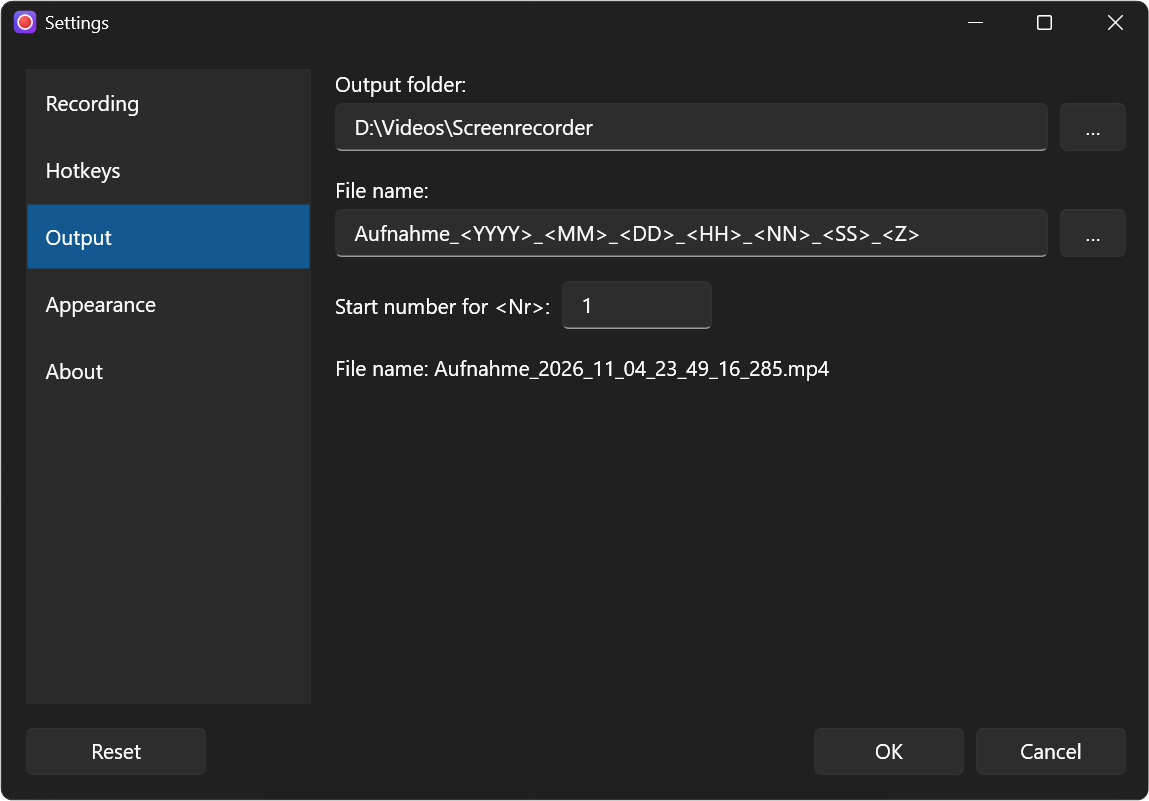
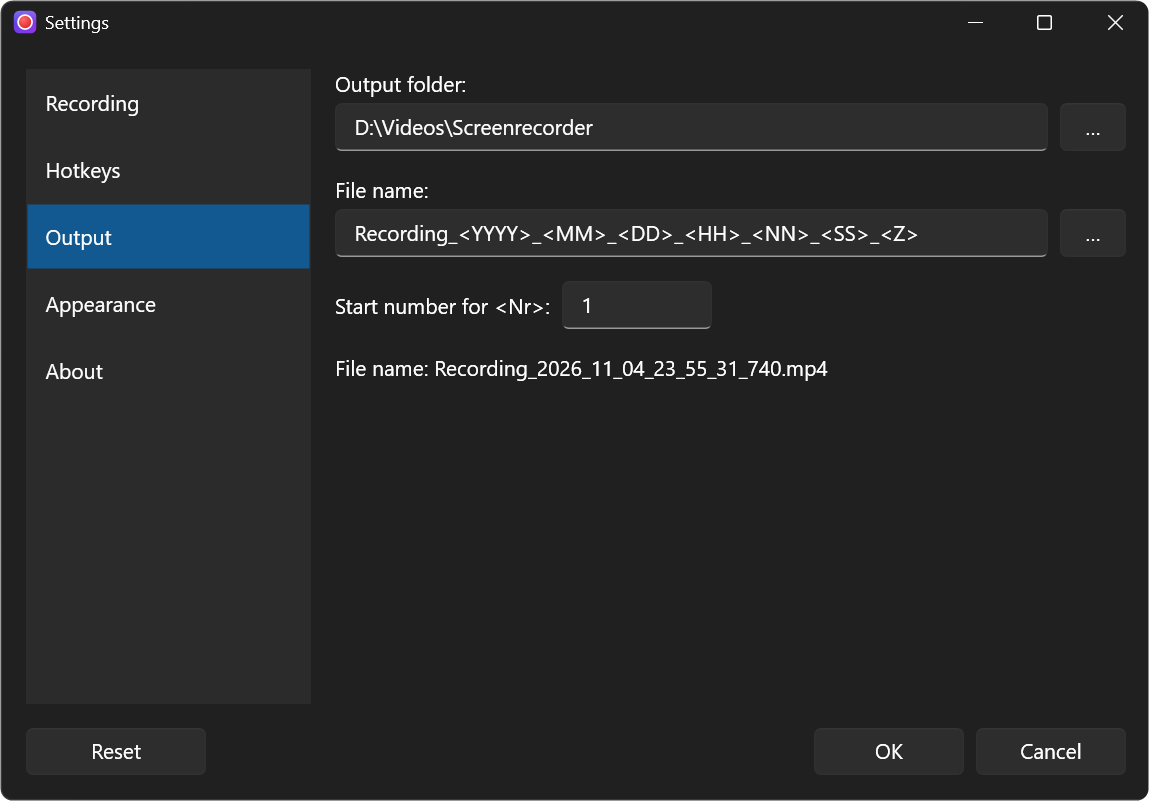
Localize the default file name: Recording_… in English, Aufnahme_… in German
Saved custom patterns stay untouched; only new installs, Reset and an empty
file name field use the localized default.

Changed region(s): [[0.0, 0.9988, 1.0, 1.0], [0.3046, 0.2809, 0.792, 0.3121], [0.3655, 0.437, 0.7311, 0.4682]]

diff --git a/src/Screenrecorder/FileNamer.cs b/src/Screenrecorder/FileNamer.cs
@@ -1,11 +1,13 @@
 using System.IO;
+using Screenrecorder.Resources;
 
 namespace Screenrecorder;
 
-/// <summary>Builds output file names from patterns like "Aufnahme_&lt;YYYY&gt;_&lt;MM&gt;_&lt;DD&gt;_&lt;HH&gt;_&lt;NN&gt;_&lt;SS&gt;_&lt;Z&gt;".</summary>
+/// <summary>Builds output file names from patterns like "Recording_&lt;YYYY&gt;_&lt;MM&gt;_&lt;DD&gt;_&lt;HH&gt;_&lt;NN&gt;_&lt;SS&gt;_&lt;Z&gt;".</summary>
 public static class FileNamer
 {
-    public const string DefaultPattern = "Aufnahme_<YYYY>_<MM>_<DD>_<HH>_<NN>_<SS>_<Z>";
+    /// <summary>"Recording_…" or "Aufnahme_…" depending on the UI language.</summary>
+    public static string DefaultPattern => Strings.FileNamePrefix + "_<YYYY>_<MM>_<DD>_<HH>_<NN>_<SS>_<Z>";
 
     /// <summary>Placeholders in the order the settings menu offers them.</summary>
     public static readonly string[] Tokens = ["<YYYY>", "<MM>", "<DD>", "<HH>", "<NN>", "<SS>", "<Z>", "<Nr>"];
@@ -22,7 +24,7 @@ public static class FileNamer
             .Replace("<Z>", time.ToString("fff"))
             .Replace("<Nr>", number.ToString());
         name = string.Concat(name.Select(c => Path.GetInvalidFileNameChars().Contains(c) ? '_' : c)).Trim().TrimEnd('.');
-        return name.Length == 0 ? "Aufnahme" : name;
+        return name.Length == 0 ? Strings.FileNamePrefix : name;
     }
 
     /// <summary>folder\name.mp4, or name_2.mp4, name_3.mp4 … if that file already exists.</summary>

diff --git a/tests/Screenrecorder.Tests/MiscTests.cs b/tests/Screenrecorder.Tests/MiscTests.cs
@@ -109,7 +109,7 @@ public class FileNamerTests
     [Fact]
     public void Replaces_all_placeholders()
     {
-        Assert.Equal("Aufnahme_2026_10_26_21_30_22_663", FileNamer.Format(FileNamer.DefaultPattern, Time, 1));
+        Assert.Equal("Rec_2026_10_26_21_30_22_663", FileNamer.Format("Rec_<YYYY>_<MM>_<DD>_<HH>_<NN>_<SS>_<Z>", Time, 1));
         Assert.Equal("Clip 7 26.10", FileNamer.Format("Clip <Nr> <DD>.<MM>.", Time, 7)); // trailing dot is not allowed on Windows
     }
 
@@ -117,7 +117,7 @@ public class FileNamerTests
     public void Invalid_characters_become_underscores_and_empty_falls_back()
     {
         Assert.Equal("a_b_c", FileNamer.Format("a:b/c", Time, 1));
-        Assert.Equal("Aufnahme", FileNamer.Format("  ", Time, 1));
+        Assert.Equal(Strings.FileNamePrefix, FileNamer.Format("  ", Time, 1));
     }
 
     [Fact]
@@ -380,8 +380,10 @@ public class TranslationTests
         {
             CultureInfo.CurrentUICulture = new CultureInfo("de");
             Assert.Equal("Aufnahme", Strings.Record);
+            Assert.StartsWith("Aufnahme_<YYYY>", FileNamer.DefaultPattern);
             CultureInfo.CurrentUICulture = new CultureInfo("en");
             Assert.Equal("Record", Strings.Record);
+            Assert.StartsWith("Recording_<YYYY>", FileNamer.DefaultPattern);
         }
         finally
         {

diff --git a/src/Screenrecorder/Resources/Strings.cs b/src/Screenrecorder/Resources/Strings.cs
@@ -105,4 +105,5 @@ public static class Strings
     public static string NoData => Get();
     public static string MixerResetHint => Get();
     public static string Saving => Get();
+    public static string FileNamePrefix => Get();
 }

diff --git a/README.md b/README.md
@@ -35,7 +35,8 @@ a freely definable capture area, and system sound + microphone.
   mouse cursor on/off, hotkeys, output folder and file name with placeholders
   (`<YYYY> <MM> <DD> <HH> <NN> <SS> <Z> <Nr>`), language (German/English), color scheme (Windows/Light/Dark),
   About with licenses
-- Default output: `%USERPROFILE%\Videos\Screenrecorder\Aufnahme_YYYY_MM_DD_hh_mm_ss_zzz.mp4`
+- Default output: `%USERPROFILE%\Videos\Screenrecorder\Recording_YYYY_MM_DD_hh_mm_ss_zzz.mp4`
+  (`Aufnahme_…` when the app runs in German)
 
 ![Audio mixer](docs/screenshots/mixer.png)
 
